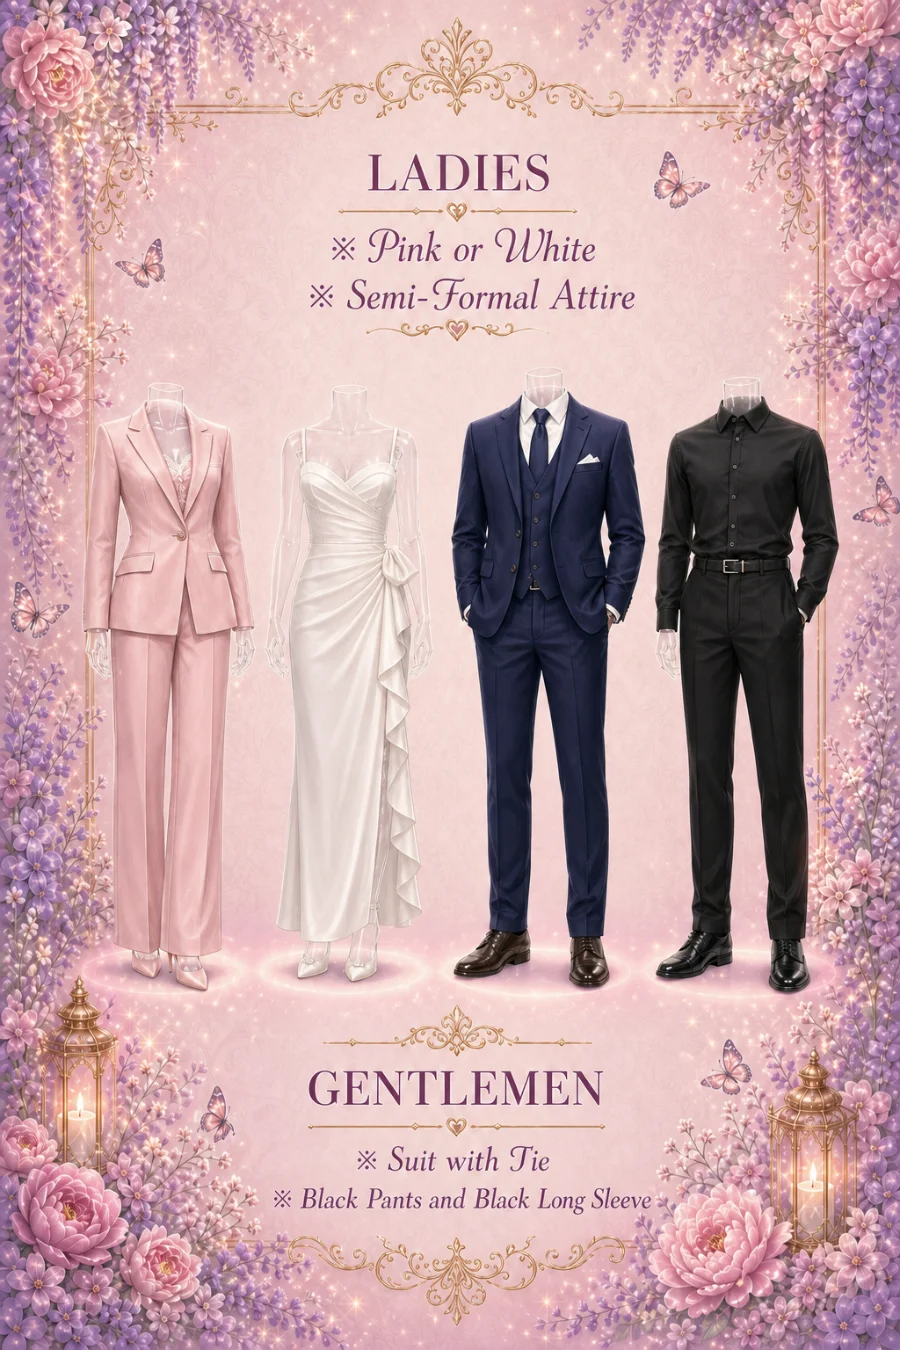
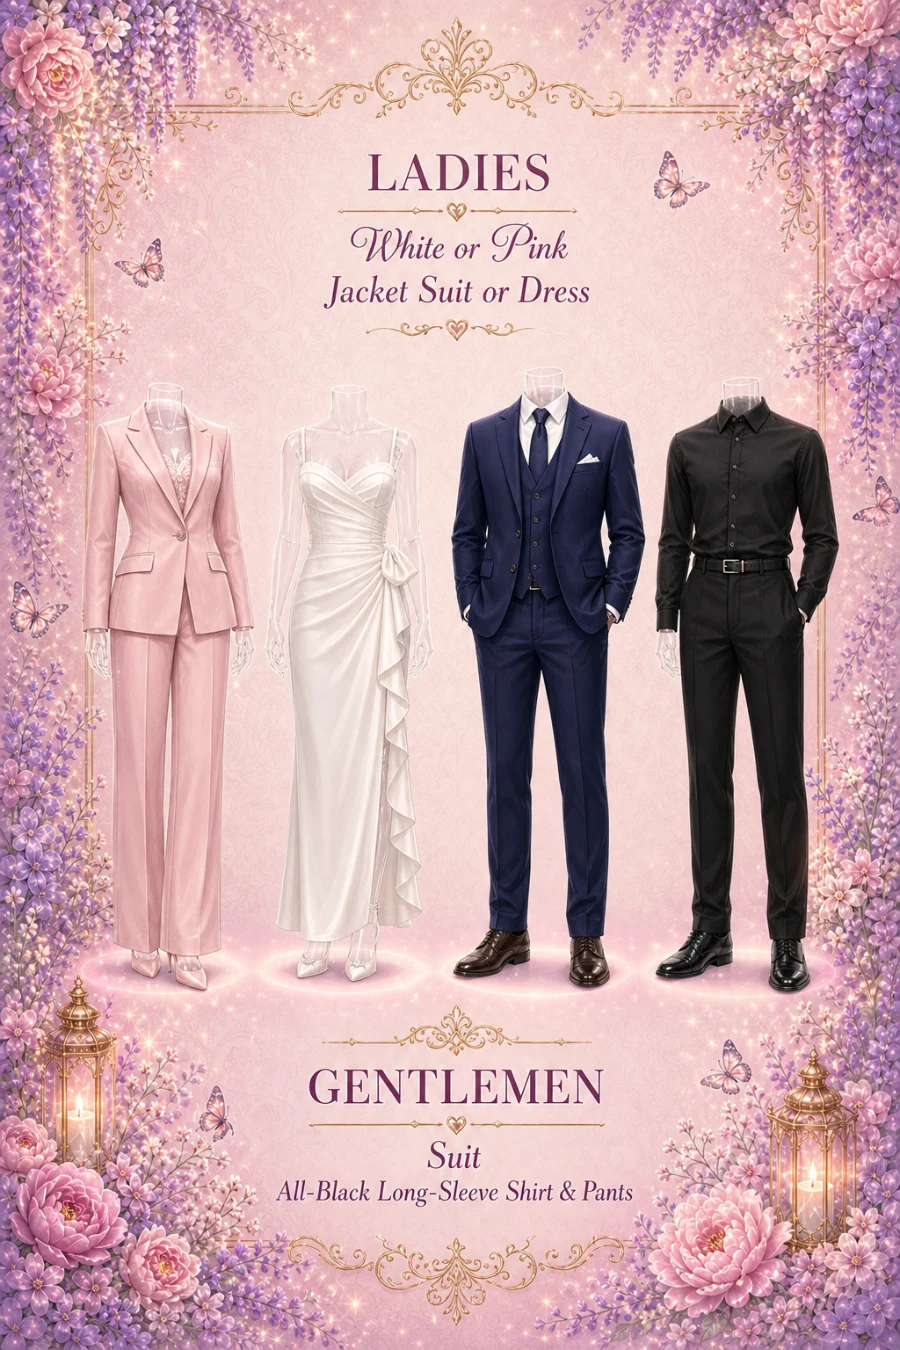
Add files via upload

diff --git a/lists.jsx b/lists.jsx
@@ -51,7 +51,7 @@ const LIST_BOARDS = [
     names: [
       "Helen Villarin", "Amie Mamaril", "Jen Bendaña", "Jocelyn Sorilla",
       "Nida Arago", "Ampie Fuñe", "Jeanny Vergara", "Tita Honey Wayne",
-      "Tita Mary Shimizu", "Tita Sia", "Tita Jeanzy", "Gella Fortuno",
+      "Tita Mary Shimizu", "Tita Sia", "Anne Florentino", "Gella Fortuno",
       "Renalou Valdez", "Kuya Ryan", "Ninang Ronafe", "Ate Juvie",
       "Tito Jericho", "Tita Susie",
     ],
